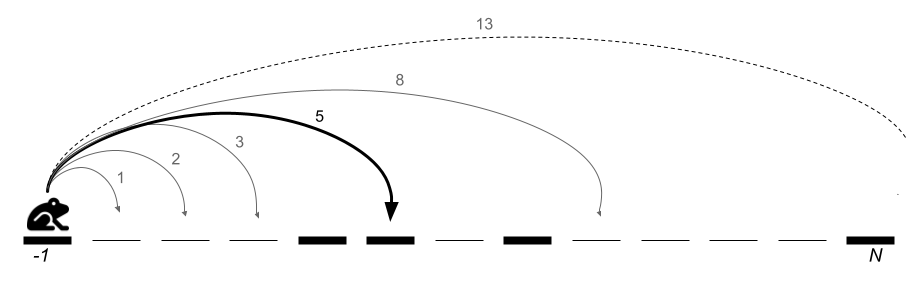
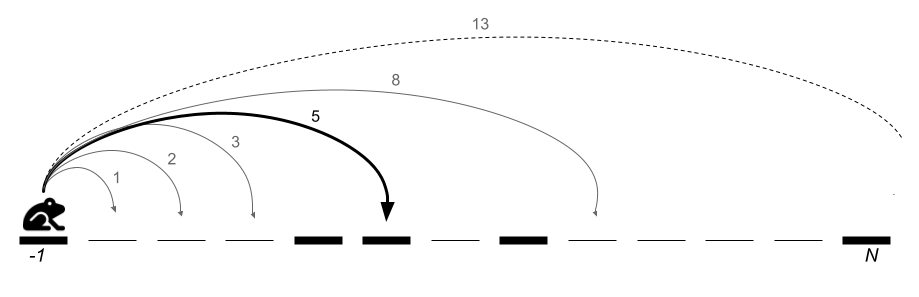
More illustration. One more to go

diff --git a/algos/js/codility/fibonacci/FIBFROG.md b/algos/js/codility/fibonacci/FIBFROG.md
@@ -160,3 +160,7 @@ Before the `solution` function transitions into the final loop, it prepares 3 ar
 The `steps` array, is the array that will be updated to keep track of all (really? all?) possibilities from each position and is critically important in _find the minimum number of jumps it takes to get to the other bank of the river, N_.
 
 ![Starting Position of Fibonacci Frog](/.attachments/fibonacci-frog-base-0.png)
+
+As seen, in the illustration above when the main loop starts to fill out the `steps` array it starts from `base` equal to 0 and it iterates through all the possible fibonacci numbers to find _a step_ that lands on a _leaf_ (basically a position in `arr` where the value is 1). The distance from one bank to the next is 12, so when the iteration reaches the 7<sup>th</sup> number in the fibonacci sequence (13), the fibonacci iteration pointer, `i`, is reset and the `base` is incremented (because of the condition `nextPos > N`).
+
+![Starting Position of Fibonacci Frog](/.attachments/fibonacci-frog-base-5.png)
